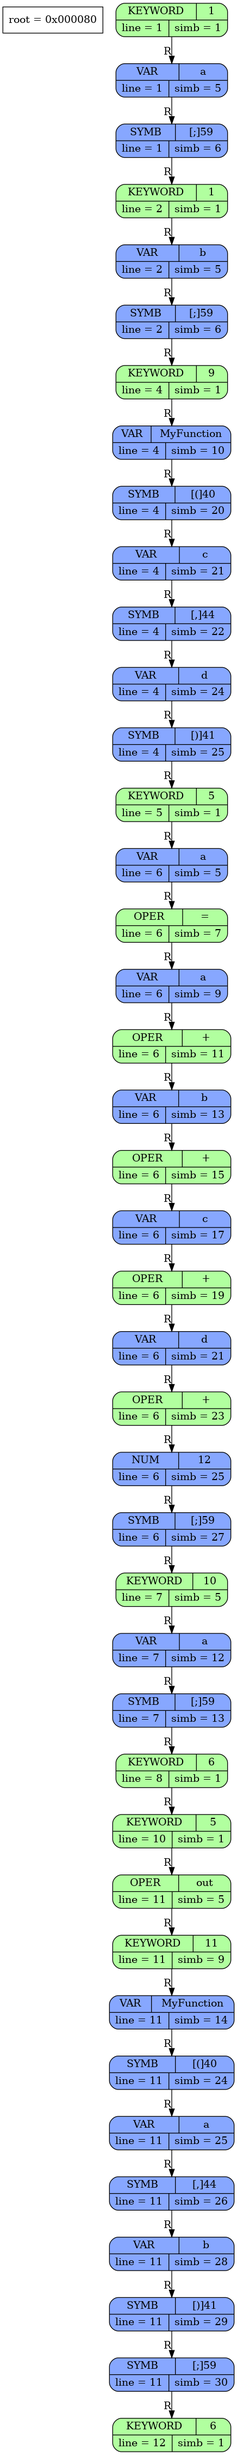
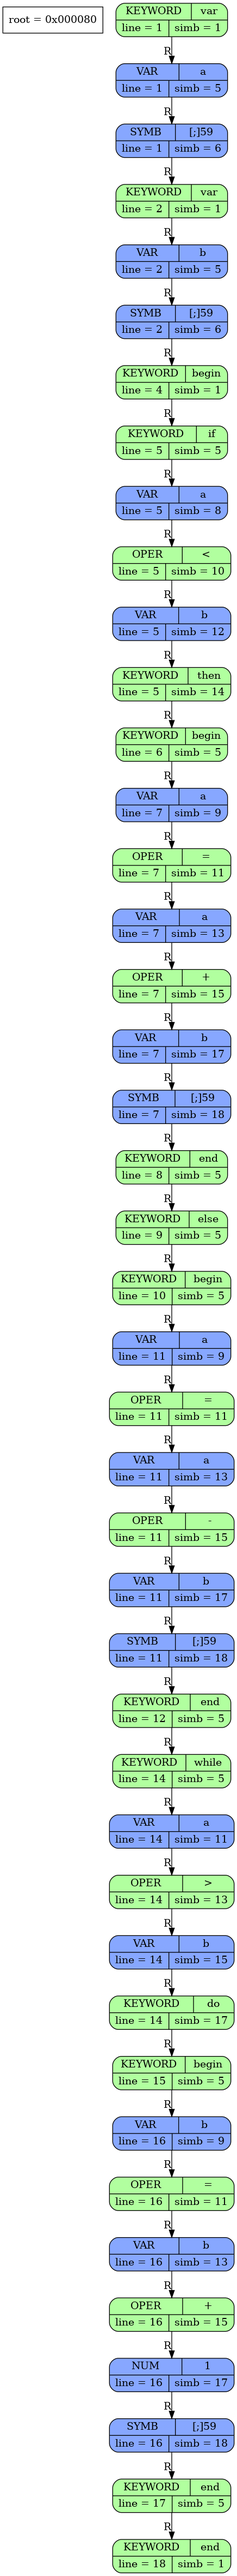
some fixes in graphic dump + splitting into functions in createassembler.cpp

diff --git a/Libs/CreateAssembler/CreateAssembler.cpp b/Libs/CreateAssembler/CreateAssembler.cpp
@@ -227,6 +227,53 @@ int PutOperator(Node* node, FILE* output_file)
     return 0;
 }
 
+int PutIf(Node* node, FILE* output_file)
+{    
+    int else_label     = LabelCounter();
+    int end_else_label = LabelCounter();
+
+    CheckSyntaxError(L(node) != nullptr, L(node), -1);
+    PutNodeInFile(L(node), output_file);                    //cond
+    fprintf(output_file, "push 0\n");
+    fprintf(output_file, "jne label%d\n", else_label);      //go to else branch
+
+    StartScope();
+    PutNodeInFile(RL(node), output_file);                   //true branch
+    fprintf(output_file, "jmp label%d\n", end_else_label);  //skip else branch
+    EndScope();
+
+    fprintf(output_file, "label%d:\n", else_label);         //else branch
+    StartScope();
+    PutNodeInFile(RR(node), output_file);            
+    EndScope();
+
+    fprintf(output_file, "label%d:\n", end_else_label);
+    
+    return 0;
+}
+
+int PutWhile(Node* node, FILE* output_file)
+{ 
+    CheckSyntaxError(L(node) != nullptr, L(node), -1);
+
+    int start_loop_label = LabelCounter();
+    int end_loop_label   = LabelCounter();
+            
+    fprintf(output_file, "label%d:\n", start_loop_label);
+    PutNodeInFile(L(node), output_file);                        //cond
+    fprintf(output_file, "push 0\n");
+    fprintf(output_file, "jne label%d\n", end_loop_label);      //end loop
+
+    StartScope();                                               //loop body
+    PutNodeInFile(R(node), output_file);                    
+    EndScope();
+    fprintf(output_file, "jmp label%d\n", start_loop_label);   //end loop
+            
+    fprintf(output_file, "label%d:\n", end_loop_label);
+
+    return 0;
+}
+
 int PutKeyword(Node* node, FILE* output_file)
 {
     switch (VAL_KEYWORD(node))
@@ -240,47 +287,14 @@ int PutKeyword(Node* node, FILE* output_file)
         }
         case KEYWORD_IF:
         {
-            int else_label     = LabelCounter();
-            int end_else_label = LabelCounter();
-
-            CheckSyntaxError(L(node) != nullptr, L(node), -1);
-            PutNodeInFile(L(node), output_file);                    //cond
-            fprintf(output_file, "push 0\n");
-            fprintf(output_file, "jne label%d\n", else_label);      //go to else branch
-
-            StartScope();
-            PutNodeInFile(RL(node), output_file);                   //true branch
-            fprintf(output_file, "jmp label%d\n", end_else_label);  //skip else branch
-            EndScope();
-
-            fprintf(output_file, "label%d:\n", else_label);         //else branch
-            StartScope();
-            PutNodeInFile(RR(node), output_file);            
-            EndScope();       
-            fprintf(output_file, "label%d:\n", end_else_label);
-
-            return 0;
+            ReturnIfError(PutIf(node, output_file));
+            break;
         }
 
         case KEYWORD_WHILE:
         {
-            CheckSyntaxError(L(node) != nullptr, L(node), -1);
-
-            int start_loop_label = LabelCounter();
-            int end_loop_label   = LabelCounter();
-            
-            fprintf(output_file, "label%d:\n", start_loop_label);
-            PutNodeInFile(L(node), output_file);                        //cond
-            fprintf(output_file, "push 0\n");
-            fprintf(output_file, "jne label%d\n", end_loop_label);      //end loop
-
-            StartScope();                                               //loop body
-            PutNodeInFile(R(node), output_file);                    
-            EndScope();
-            fprintf(output_file, "jmp label%d\n", start_loop_label);   //end loop
-            
-            fprintf(output_file, "label%d:\n", end_loop_label);
-            return 0;
+            ReturnIfError(PutWhile(node, output_file));
+            break;
         }
 
         default:

diff --git a/Libs/DSL.h b/Libs/DSL.h
@@ -85,7 +85,7 @@ const double PRECISION = 1e-6;
             fprintf(fp, "=");   \
             break;              \
         case OP_IS_B:           \
-            fprintf(fp, ">");   \
+            fprintf(fp, "&#62;");   \
             break;              \
         case OP_IS_BE:          \
             fprintf(fp, ">=");  \
@@ -97,7 +97,7 @@ const double PRECISION = 1e-6;
             fprintf(fp, "!=");  \
             break;              \
         case OP_IS_S:           \
-            fprintf(fp, "<");   \
+            fprintf(fp, "&#60;");   \
             break;              \
         case OP_IS_SE:          \
             fprintf(fp, "<=");  \

diff --git a/Libs/BinaryTree/BinaryTree.h b/Libs/BinaryTree/BinaryTree.h
@@ -226,7 +226,10 @@ static void WriteNodeAndEdge(Node* node, void* fp_void)
         case TYPE_KEYWORD:
         {
             fprintf(fp, node_format, node, light_yellow, node);
-            fprintf(fp, "KEYWORD | %d ", VAL_KEYWORD(node));
+            if (VAL_KEYWORD(node) == 0)
+                fprintf(fp, "KEYWORD | %d ", 0);
+            else
+                fprintf(fp, "KEYWORD | %s ", KEYWORDS[VAL_KEYWORD(node) - 1]);
             break;
         }
         case TYPE_FUNCTION:

diff --git a/Libs/ResursiveDescent/RecursiveDescent.cpp b/Libs/ResursiveDescent/RecursiveDescent.cpp
@@ -4,7 +4,6 @@
 #include "../Logging/Logging.h"
 
 static Node* last_comand = 0;
-#define DEBUG
 
 //----------------------------
 //Grammar   ::= CreateVar* Function* Scope
@@ -606,7 +605,10 @@ static Node* GetInOutCall(Node** ip)
         return new_node;
     }
     
-    printf("There isnt in and out\n");
+    #ifdef DEBUG
+        printf("There isnt in and out\n");
+    #endif
+    
     new_node = GetPow(ip);
     #ifdef DEBUG
         printf("(end InAndOut)\n");

diff --git a/README.md b/README.md
@@ -1,3 +1,5 @@
 In Var keyword node Variable is always in left node
 
 In "in"/"out" operator variable/expression is in the right node
+
+Dont put ';' after "end"
